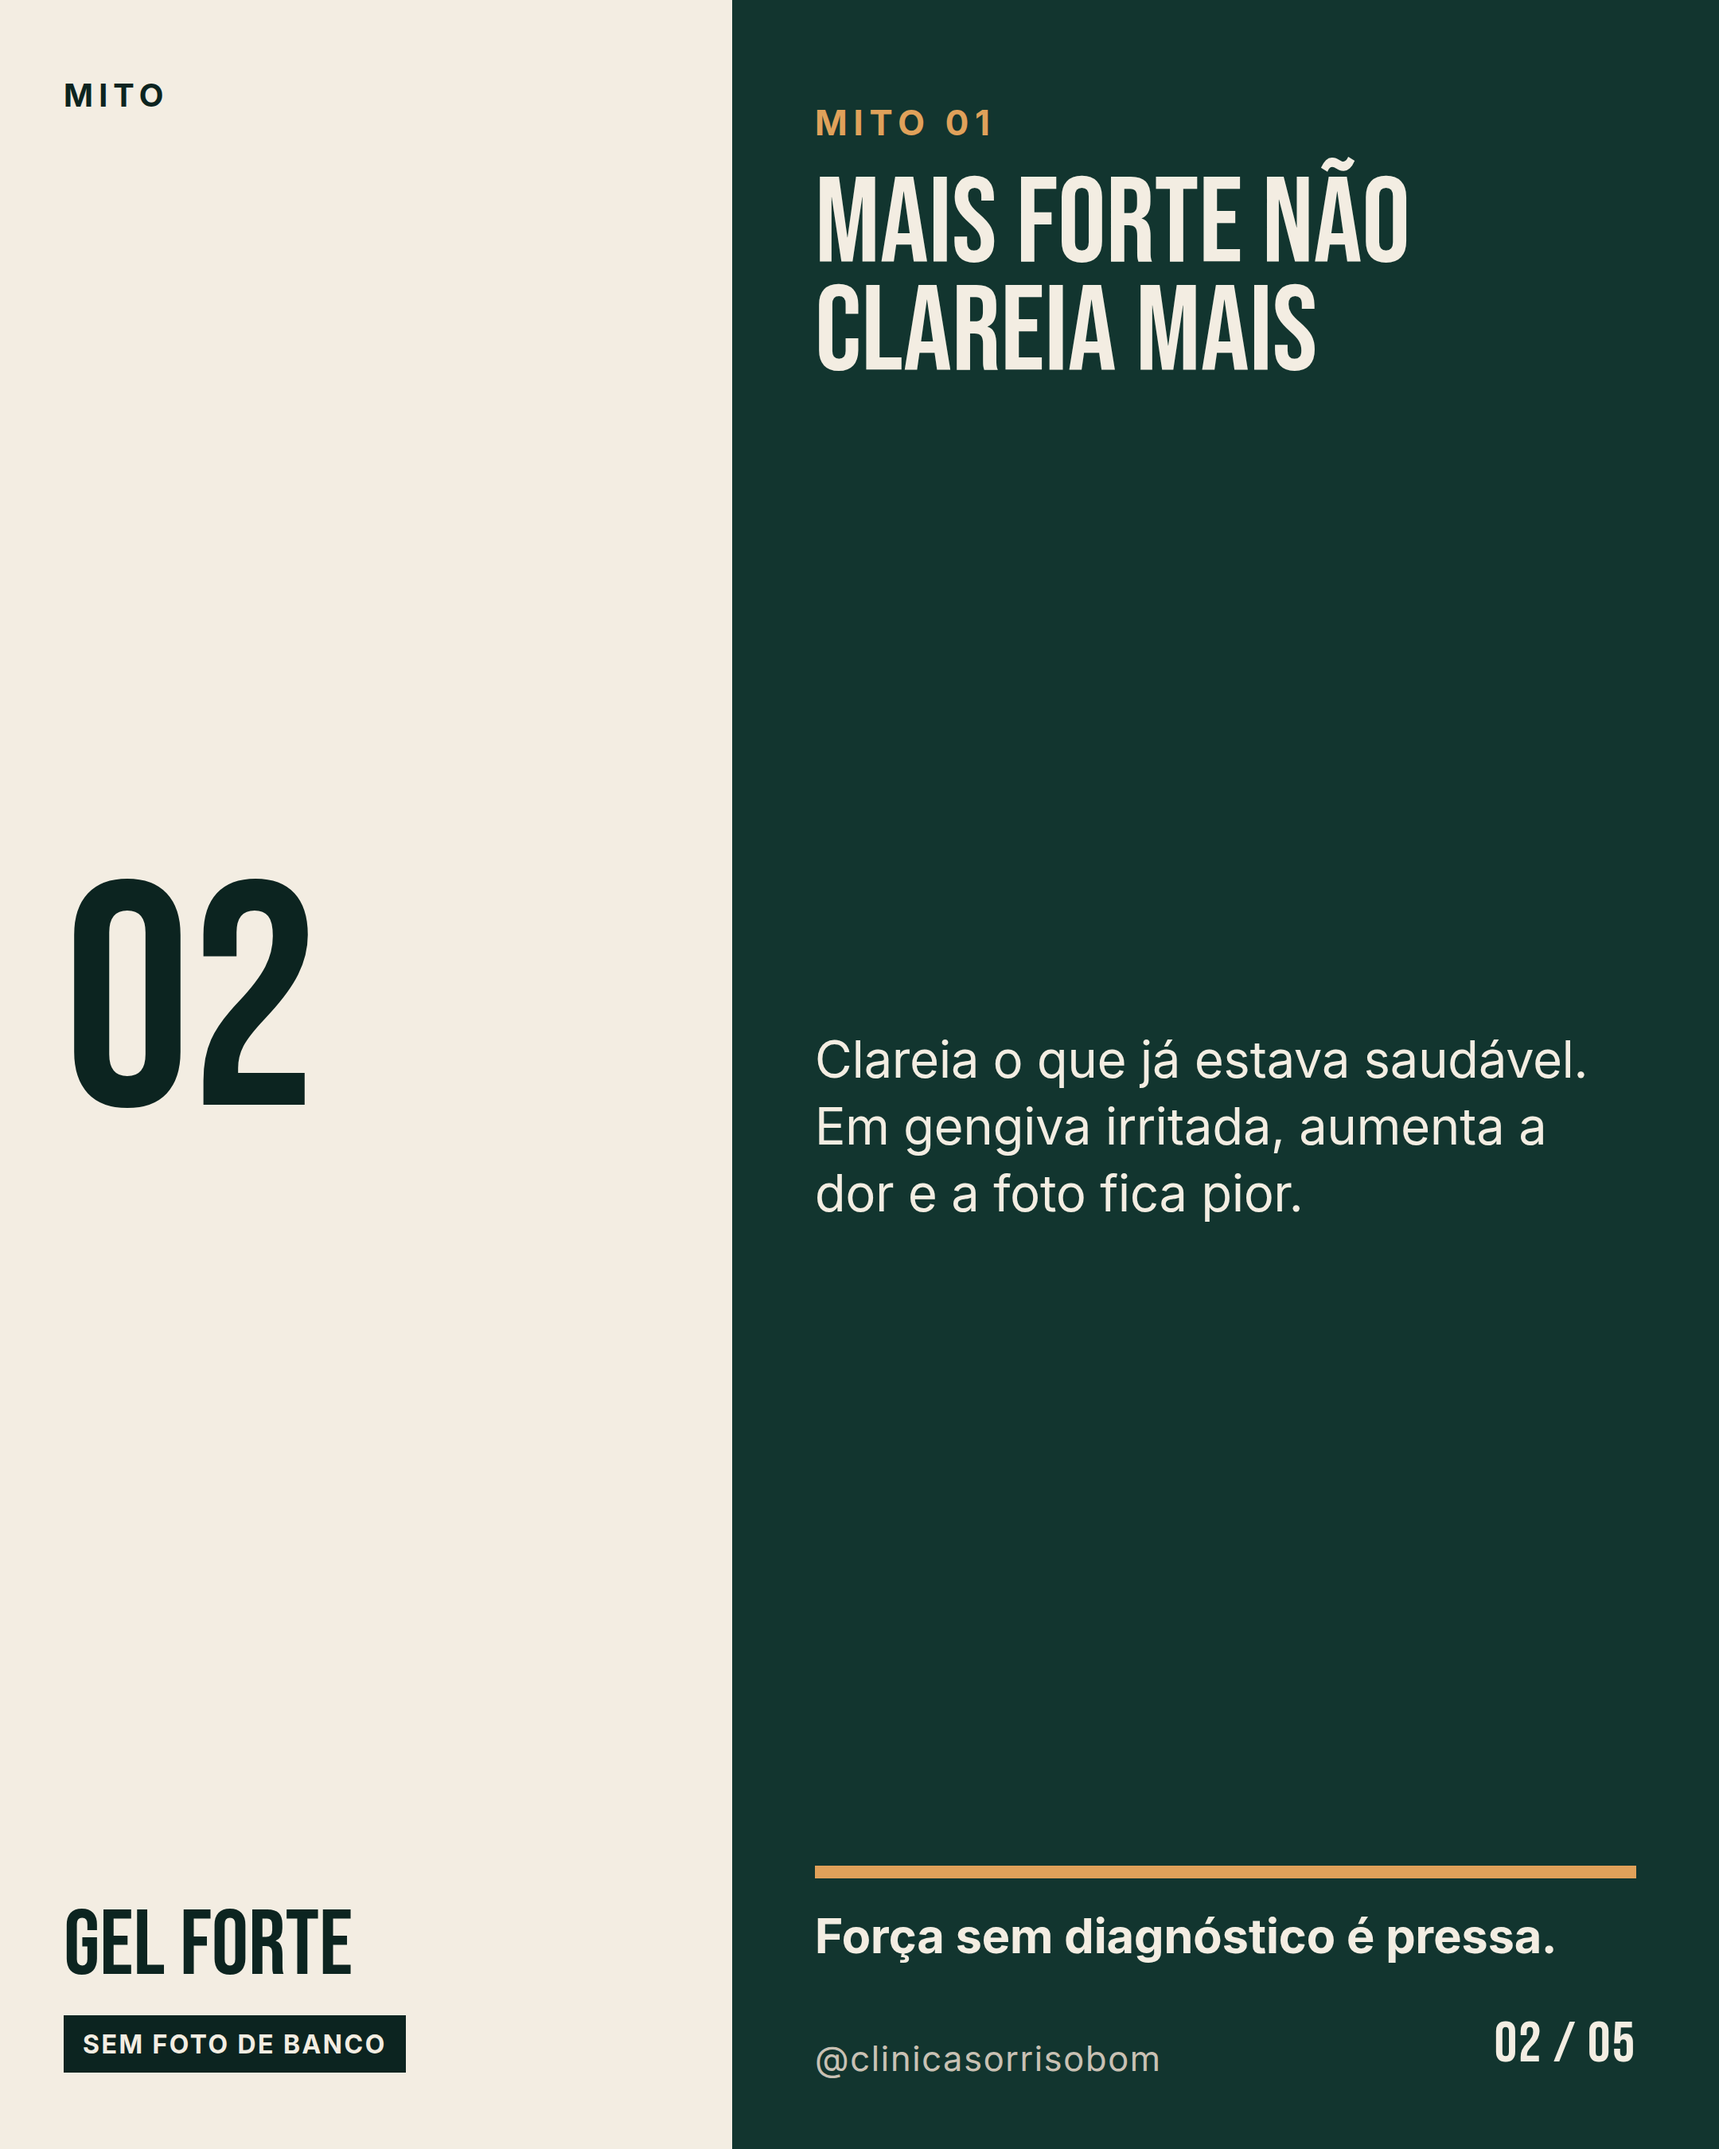
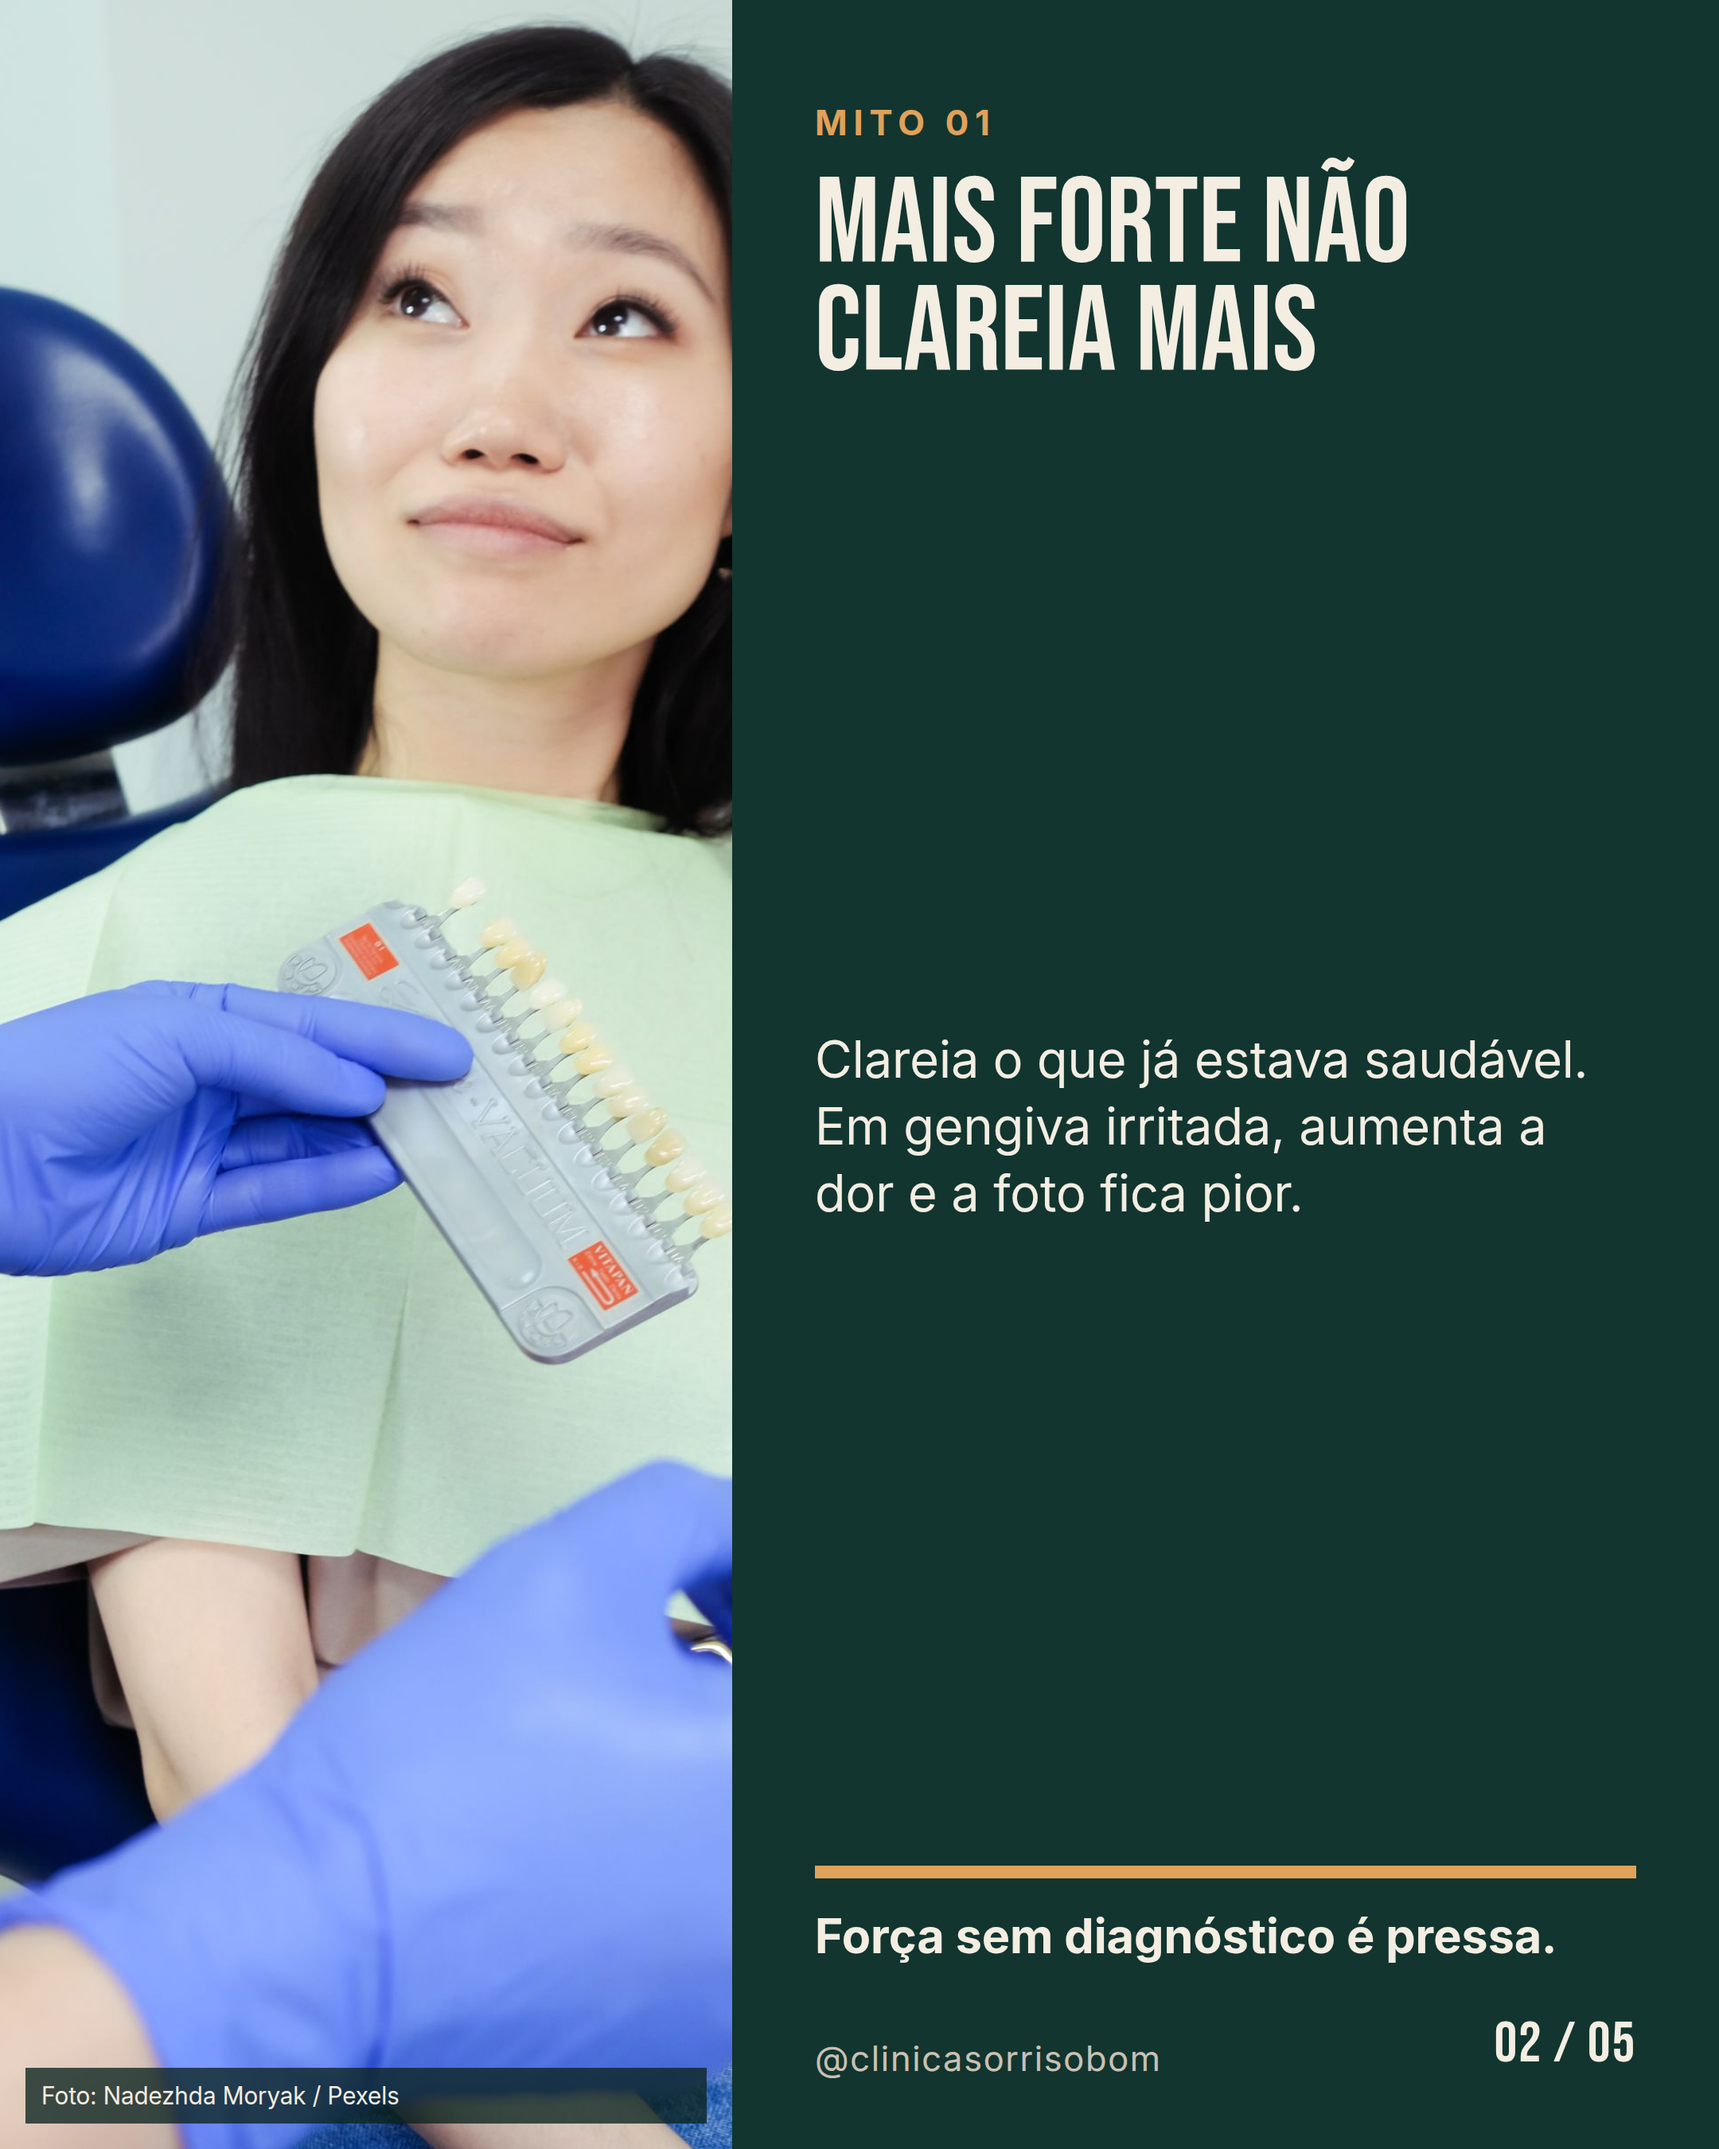
Coloca fotos da Pexels no carrossel da clínica demo.
O banco baixa a imagem no tamanho do slide e o crédito vai para o PNG e para creditos.md. A chave fica só no .env local.

diff --git a/motor/banco-imagens.js b/motor/banco-imagens.js
@@ -37,6 +37,28 @@ async function baixar(url, destino) {
   return buf.length;
 }
 
+function urlNitida(url) {
+  const u = new URL(url);
+  u.searchParams.set('auto', 'compress');
+  u.searchParams.set('cs', 'tinysrgb');
+  u.searchParams.set('fit', 'crop');
+  u.searchParams.set('w', '1800');
+  u.searchParams.set('h', '2400');
+  u.searchParams.delete('dpr');
+  return u.toString();
+}
+
+function fichaPexels(foto) {
+  return {
+    banco: 'Pexels',
+    arquivoUrl: urlNitida(foto.src?.original || foto.src?.large2x || foto.src?.large),
+    autor: foto.photographer,
+    autorUrl: foto.photographer_url,
+    pagina: foto.url,
+    credito: `Foto de ${foto.photographer} no Pexels. ${foto.url}`,
+  };
+}
+
 async function pexels(consulta, quantidade) {
   const chave = process.env.PEXELS_API_KEY;
   if (!chave) return [];
@@ -44,14 +66,17 @@ async function pexels(consulta, quantidade) {
   const res = await fetch(url, { headers: { Authorization: chave } });
   if (!res.ok) throw new Error(`Pexels respondeu ${res.status}`);
   const json = await res.json();
-  return (json.photos || []).slice(0, quantidade).map((foto) => ({
-    banco: 'Pexels',
-    arquivoUrl: foto.src?.large2x || foto.src?.large,
-    autor: foto.photographer,
-    autorUrl: foto.photographer_url,
-    pagina: foto.url,
-    credito: `Foto de ${foto.photographer} no Pexels. ${foto.url}`,
-  }));
+  return (json.photos || []).slice(0, quantidade).map(fichaPexels);
+}
+
+async function pexelsPorId(id) {
+  const chave = process.env.PEXELS_API_KEY;
+  if (!chave) return [];
+  const res = await fetch(`https://api.pexels.com/v1/photos/${encodeURIComponent(id)}`, {
+    headers: { Authorization: chave },
+  });
+  if (!res.ok) throw new Error(`Pexels respondeu ${res.status}`);
+  return [fichaPexels(await res.json())];
 }
 
 async function unsplash(consulta, quantidade) {
@@ -128,14 +153,23 @@ async function main() {
   }
 
   const lotes = [];
-  for (const buscar of [pexels, unsplash, pixabay]) {
+  if (args.id) {
     try {
-      const achados = await buscar(consulta, quantidade);
-      lotes.push(...achados);
+      lotes.push(...(await pexelsPorId(args.id)));
     } catch (err) {
       console.error(err.message);
     }
-    if (lotes.length >= quantidade) break;
+  }
+  if (lotes.length === 0) {
+    for (const buscar of [pexels, unsplash, pixabay]) {
+      try {
+        const achados = await buscar(consulta, quantidade);
+        lotes.push(...achados);
+      } catch (err) {
+        console.error(err.message);
+      }
+      if (lotes.length >= quantidade) break;
+    }
   }
   const escolhidos = lotes.slice(0, quantidade);
   if (escolhidos.length === 0) {

diff --git a/motor/render-engine.js b/motor/render-engine.js
@@ -135,6 +135,9 @@ function htmlFrase(c, slide, width, height, numero, total) {
 function htmlFotoCheia(c, slide, width, height, numero, total, foto) {
   const direita = `${numero} / ${String(total).padStart(2, '0')}`;
   const aviso = foto ? '' : `<div style="position:absolute;top:36px;right:36px;background:${c.destaque};color:${c.escuro};font-size:16px;font-weight:700;letter-spacing:0.08em;text-transform:uppercase;padding:8px 12px;">sem foto de banco</div>`;
+  const credito = slide.credito
+    ? `<div style="margin-top:10px;font-size:16px;letter-spacing:0.04em;color:${c.medio};">${escapar(slide.credito)}</div>`
+    : '';
   const fundo = foto
     ? `<img src="${foto}" alt="" style="position:absolute;inset:0;width:100%;height:100%;object-fit:cover;">`
     : `<div style="position:absolute;inset:0;background:${c.destaque};"></div>
@@ -147,6 +150,7 @@ function htmlFotoCheia(c, slide, width, height, numero, total, foto) {
       <div class="kicker">${escapar(slide.kicker || '')}</div>
       <h1 style="font-family:${c.titulo};font-weight:400;font-size:92px;line-height:0.9;margin-top:16px;">${escapar(slide.titulo || '')}</h1>
       <p style="font-size:34px;line-height:1.3;margin-top:22px;max-width:920px;">${escapar(slide.texto || '')}</p>
+      ${credito}
       ${rodapeHtml(c, slide.rodape, direita)}
     </div>`);
 }
@@ -156,8 +160,11 @@ function htmlFotoSplit(c, slide, width, height, numero, total, foto) {
   const aviso = foto
     ? ''
     : `<div style="display:inline-block;margin-top:18px;background:${c.escuro};color:${c.claro};font-size:16px;font-weight:700;letter-spacing:0.08em;text-transform:uppercase;padding:8px 12px;">sem foto de banco</div>`;
+  const creditoFoto = foto && slide.credito
+    ? `<div style="position:absolute;left:16px;right:16px;bottom:16px;background:rgba(12,36,32,0.78);color:#F3EDE2;font-size:15px;line-height:1.3;padding:8px 10px;">${escapar(slide.credito)}</div>`
+    : '';
   const painel = foto
-    ? `<img src="${foto}" alt="" style="width:100%;height:100%;object-fit:cover;display:block;">`
+    ? `<img src="${foto}" alt="" style="width:100%;height:100%;object-fit:cover;display:block;">${creditoFoto}`
     : `<div style="height:100%;background:${c.claro};color:${c.escuro};padding:48px 40px;display:flex;flex-direction:column;justify-content:space-between;">
         <div style="font-size:20px;letter-spacing:0.18em;font-weight:700;">${escapar(slide.selo || 'PAINEL')}</div>
         <div style="font-family:${c.titulo};font-size:200px;line-height:0.8;">${escapar(numero)}</div>

diff --git a/painel/index.html b/painel/index.html
@@ -30,7 +30,7 @@
 <header>
   <p class="meta">Equipe Konverte · plano gratis</p>
   <h1>Painel do dono</h1>
-  <p class="meta">Arquivo local. Nada aqui publica sozinho. Atualizado em 2026-11-05T16:13:58.604Z.</p>
+  <p class="meta">Arquivo local. Nada aqui publica sozinho. Atualizado em 2026-11-05T16:40:39.903Z.</p>
 </header>
 <main>
 <section>

diff --git a/motor/instalar.js b/motor/instalar.js
@@ -91,7 +91,7 @@ async function main() {
     tier,
     atualizado_em: new Date().toISOString(),
     produto: 'equipe-konverte',
-    versao: '1.1.0',
+    versao: '1.1.1',
   });
   escreverJson(path.join(RAIZ, 'config', 'ambiente.json'), { chrome });
 

diff --git a/clientes/clinica-sorriso-bom/referencias/banco/creditos.md b/clientes/clinica-sorriso-bom/referencias/banco/creditos.md
@@ -2,8 +2,25 @@
 
 Cada arquivo baixado por `motor/banco-imagens.js` fica registrado aqui. Sem chave, não há download.
 
-## 2026-11-05T16:13:51.761Z
+A pessoa da foto não é a Mara. A Mara é personagem fictícia. A foto de água ilustra o sintoma. A escala de cor ilustra o mito.
 
-Consulta: dental clinic
-Resultado: nenhuma chave (PEXELS_API_KEY, UNSPLASH_ACCESS_KEY, PIXABAY_API_KEY). Carrossel segue em layout gráfico, com a tarja "sem foto de banco".
+## 1793896798779-1.jpg
+
+- Banco: Pexels
+- Autor: Nadezhda Moryak
+- Autor URL: https://www.pexels.com/@nadezhda-moryak
+- Página: https://www.pexels.com/photo/a-dentist-holding-a-dental-shade-guide-7800663/
+- Consulta: escala de cor dental
+- Arquivo: referencias/banco/1793896798779-1.jpg
+- Crédito: Foto de Nadezhda Moryak no Pexels. https://www.pexels.com/photo/a-dentist-holding-a-dental-shade-guide-7800663/
+
+## 1793896799336-1.jpg
+
+- Banco: Pexels
+- Autor: Nataliya Vaitkevich
+- Autor URL: https://www.pexels.com/@n-voitkevich
+- Página: https://www.pexels.com/photo/a-hand-pouring-water-on-a-wine-glass-with-ice-cubes-4641430/
+- Consulta: agua gelada
+- Arquivo: referencias/banco/1793896799336-1.jpg
+- Crédito: Foto de Nataliya Vaitkevich no Pexels. https://www.pexels.com/photo/a-hand-pouring-water-on-a-wine-glass-with-ice-cubes-4641430/
 

diff --git a/clientes/clinica-sorriso-bom/conteudo/output/2026-11-05_clareamento-mitos/ficha.md b/clientes/clinica-sorriso-bom/conteudo/output/2026-11-05_clareamento-mitos/ficha.md
@@ -6,4 +6,4 @@ Experiência: EXP-01
 Tese: T1
 Tipos: frase, foto-split, foto-cheia, lista, cta
 Guia: guia-visual.md
-Fotos de banco ausentes neste render: 2. Sem chave, o slide usa painel gráfico e a tarja "sem foto de banco".
+Fotos de banco ausentes neste render: 0. Sem chave, o slide usa painel gráfico e a tarja "sem foto de banco".

diff --git a/CHANGELOG.md b/CHANGELOG.md
@@ -1,5 +1,10 @@
 # Changelog
 
+## 1.1.1, 2026-11-05
+
+- O banco pede a foto já no tamanho do slide, com crédito no PNG
+- A demo da clínica usa duas fotos da Pexels no mito e na abertura da Mara
+
 ## 1.1.0, 2026-11-05
 
 - Briefing visual obrigatório antes do carrossel: `referencias/` e `guia-visual.md`

diff --git a/clientes/clinica-sorriso-bom/registro.md b/clientes/clinica-sorriso-bom/registro.md
@@ -14,3 +14,7 @@ smoke da v1
 ## 2026-11-05T16:13:57.993Z
 
 smoke da v1
+
+## 2026-11-05T16:40:39.262Z
+
+smoke da v1
